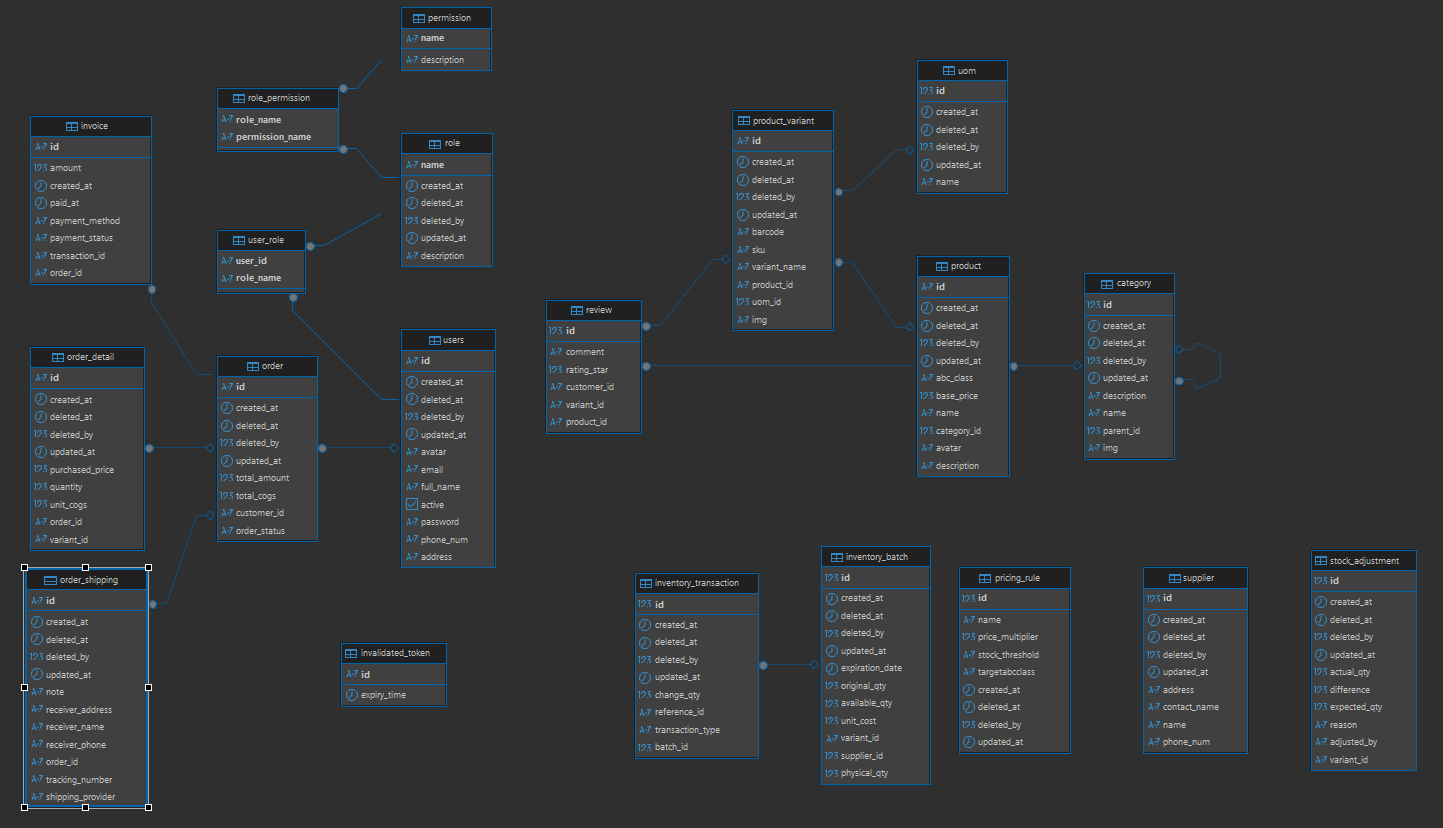
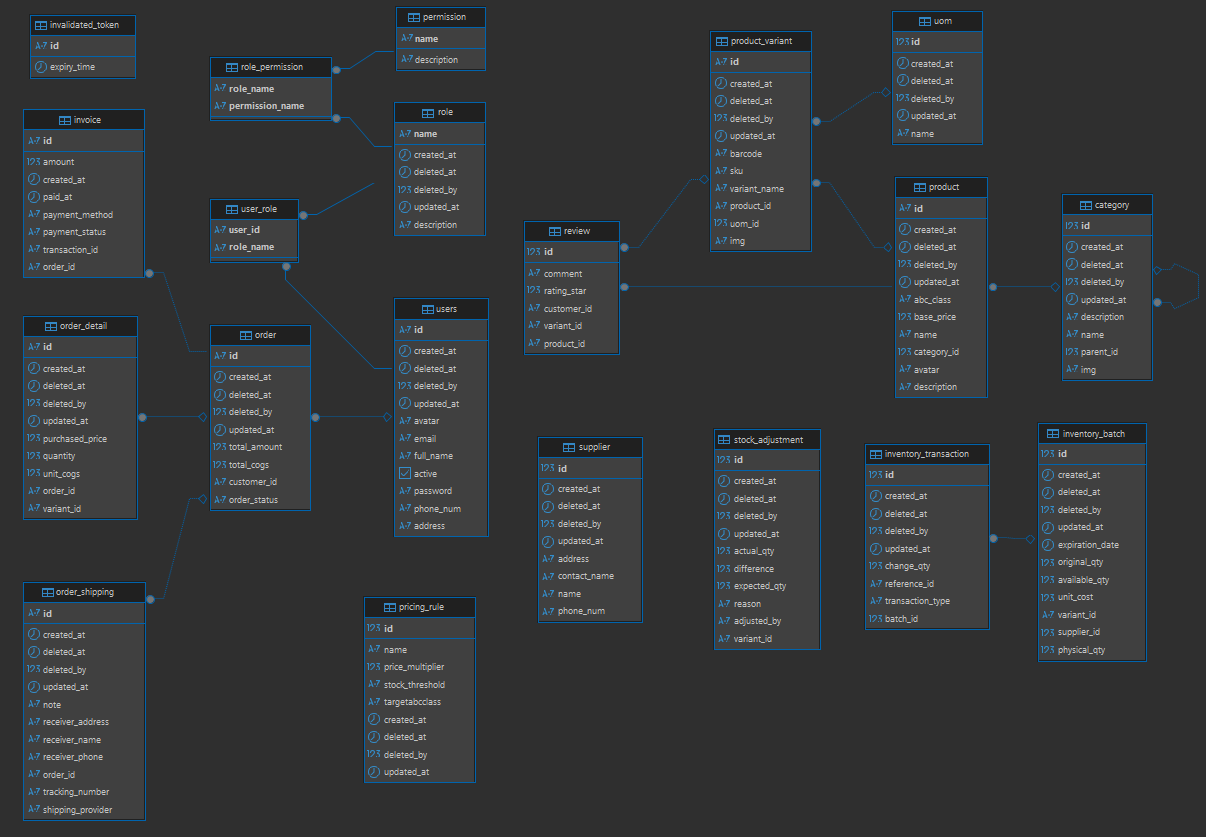
feat: imp upload img

diff --git a/src/main/java/com/dtp/cosmemgt/core/commonService/CloudinaryService.java b/src/main/java/com/dtp/cosmemgt/core/commonService/CloudinaryService.java
@@ -12,6 +12,7 @@ import org.springframework.stereotype.Service;
 import org.springframework.web.multipart.MultipartFile;
 
 import java.io.IOException;
+import java.util.HashMap;
 import java.util.Map;
 
 @Service
@@ -31,6 +32,26 @@ public class CloudinaryService {
 
             return uploadResult.get("secure_url").toString();
         }catch(IOException e){
+            log.error("Error uploading img to Cloudinary", e);
+            throw new AppException(ErrorCode.UPLOAD_FAILED);
+        }
+    }
+
+    public String uploadImg(MultipartFile file, String folderName, String objectId) {
+        try {
+            Map<String, Object> uploadParams = new HashMap<>();
+            uploadParams.put("folder", "cosmemgt/" + folderName);
+            uploadParams.put("resource_type", "auto");
+            uploadParams.put("overwrite", true); // BẬT CỜ GHI ĐÈ
+
+            if (objectId != null && !objectId.trim().isEmpty()) {
+                uploadParams.put("public_id", objectId);
+            }
+
+            Map uploadResult = cloudinary.uploader().upload(file.getBytes(), uploadParams);
+
+            return uploadResult.get("secure_url").toString();
+        } catch (IOException e) {
             log.error("Error uploading img to Cloudinary", e);
             throw new AppException(ErrorCode.UPLOAD_FAILED);
         }

diff --git a/src/main/java/com/dtp/cosmemgt/core/controller/UploadController.java b/src/main/java/com/dtp/cosmemgt/core/controller/UploadController.java
@@ -11,7 +11,7 @@ import org.springframework.web.bind.annotation.RestController;
 import org.springframework.web.multipart.MultipartFile;
 
 @RestController
-@RequestMapping("/api/uploads")
+@RequestMapping("/uploads")
 @RequiredArgsConstructor
 public class UploadController {
     private final CloudinaryService cloudinaryUtils;
@@ -19,9 +19,10 @@ public class UploadController {
     @PostMapping(value = "/image", consumes = MediaType.MULTIPART_FORM_DATA_VALUE)
     public ApiResponse<String> uploadImage(
             @RequestParam("file") MultipartFile file,
-            @RequestParam(value = "folder", defaultValue = "products") String folder) {
+            @RequestParam(value = "folder", defaultValue = "empty") String folder,
+            @RequestParam(value = "objectId", required = false) String objectId){
         
-        String imageUrl = cloudinaryUtils.uploadImg(file, folder);
+        String imageUrl = cloudinaryUtils.uploadImg(file, folder, objectId);
         return ApiResponse.<String>builder()
                 .result(imageUrl)
                 .build();

diff --git a/src/main/java/com/dtp/cosmemgt/catalog/repository/ProductVariantRepository.java b/src/main/java/com/dtp/cosmemgt/catalog/repository/ProductVariantRepository.java
@@ -18,7 +18,7 @@ import java.util.Optional;
 public interface ProductVariantRepository extends JpaRepository<ProductVariant, String>, JpaSpecificationExecutor<ProductVariant> {
     boolean existsByVariantName(String variantName);
 
-    List<ProductVariant> findAllByProductId(String productId);
+    List<ProductVariant> findByIdIn(List<String> variantIds);
 
     @Modifying(clearAutomatically = true, flushAutomatically = true)
     @Query(value = "DELETE FROM product_variant WHERE id = :id", nativeQuery = true)

diff --git a/src/main/java/com/dtp/cosmemgt/admin/dto/request/UserCreationRequest.java b/src/main/java/com/dtp/cosmemgt/admin/dto/request/UserCreationRequest.java
@@ -17,9 +17,14 @@ public class UserCreationRequest {
     String fullName;
     String phoneNum;
     String address;
+
     @Size(min = 4, message = "USERNAME_INVALID")
     String email;
+
     @Size(min = 6, message = "INVALID_PASSWORD")
     String password;
+
     Set<String> roles;
+
+    String avatar;
 }
